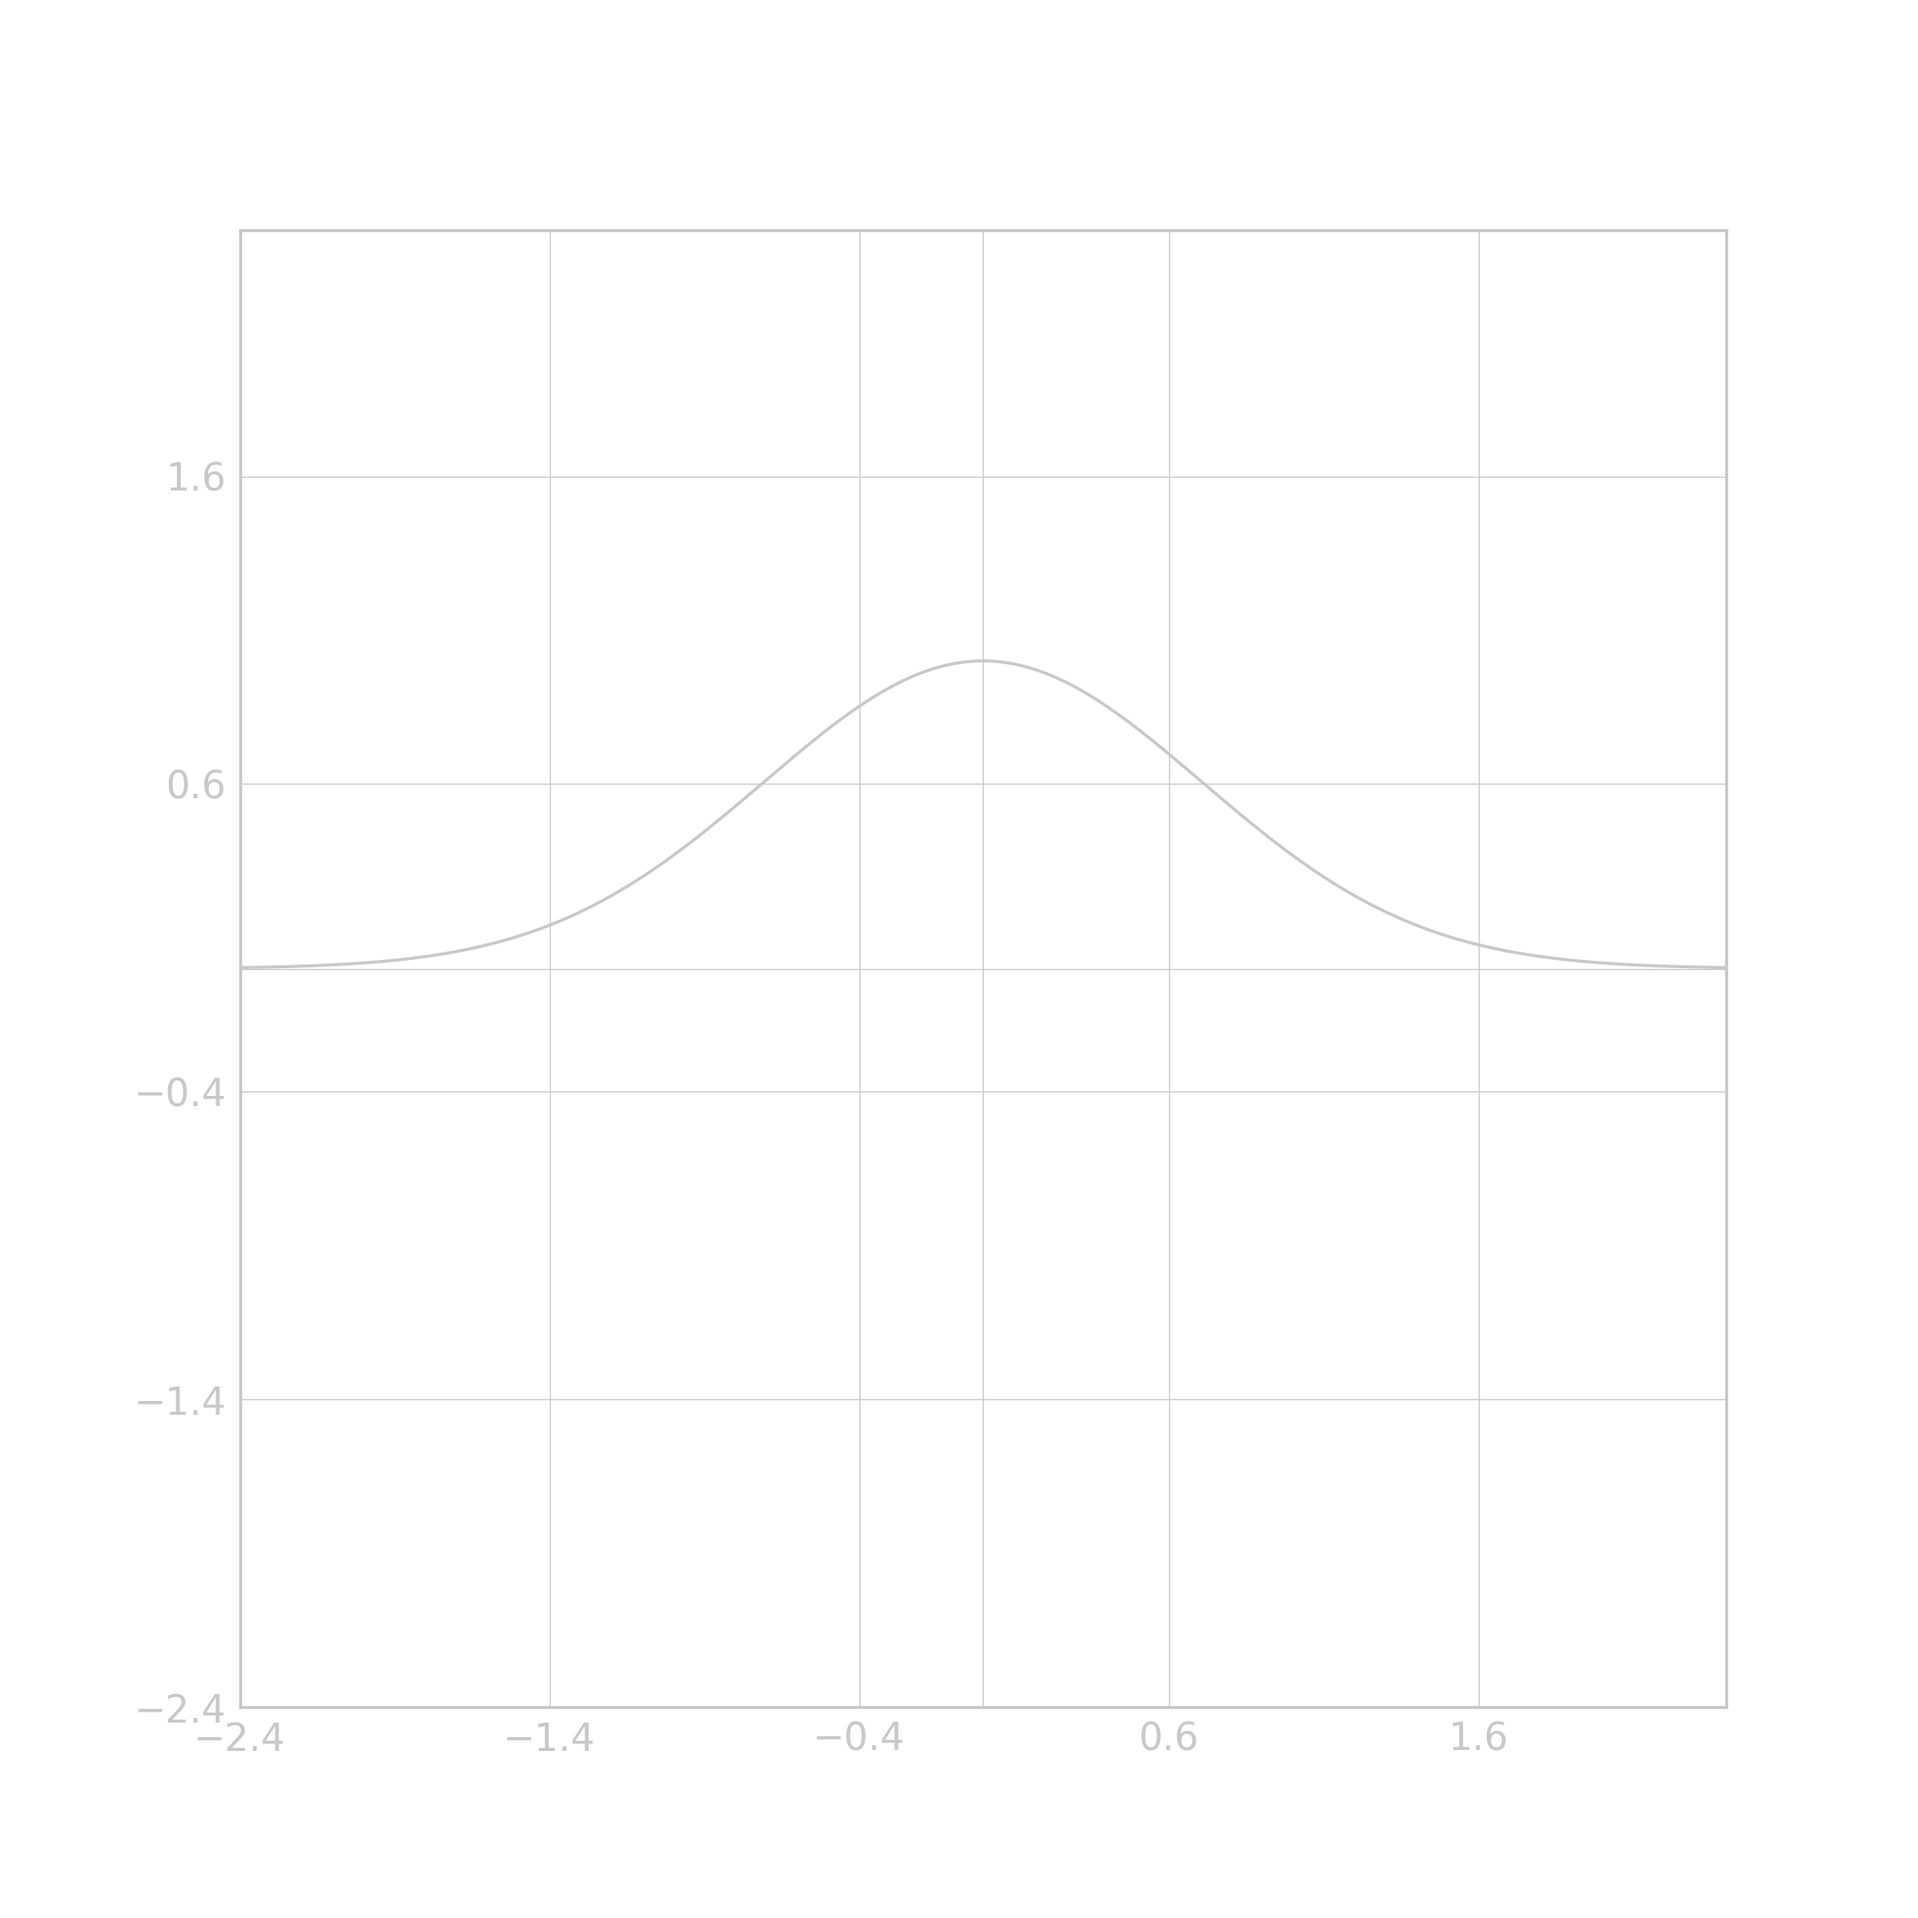
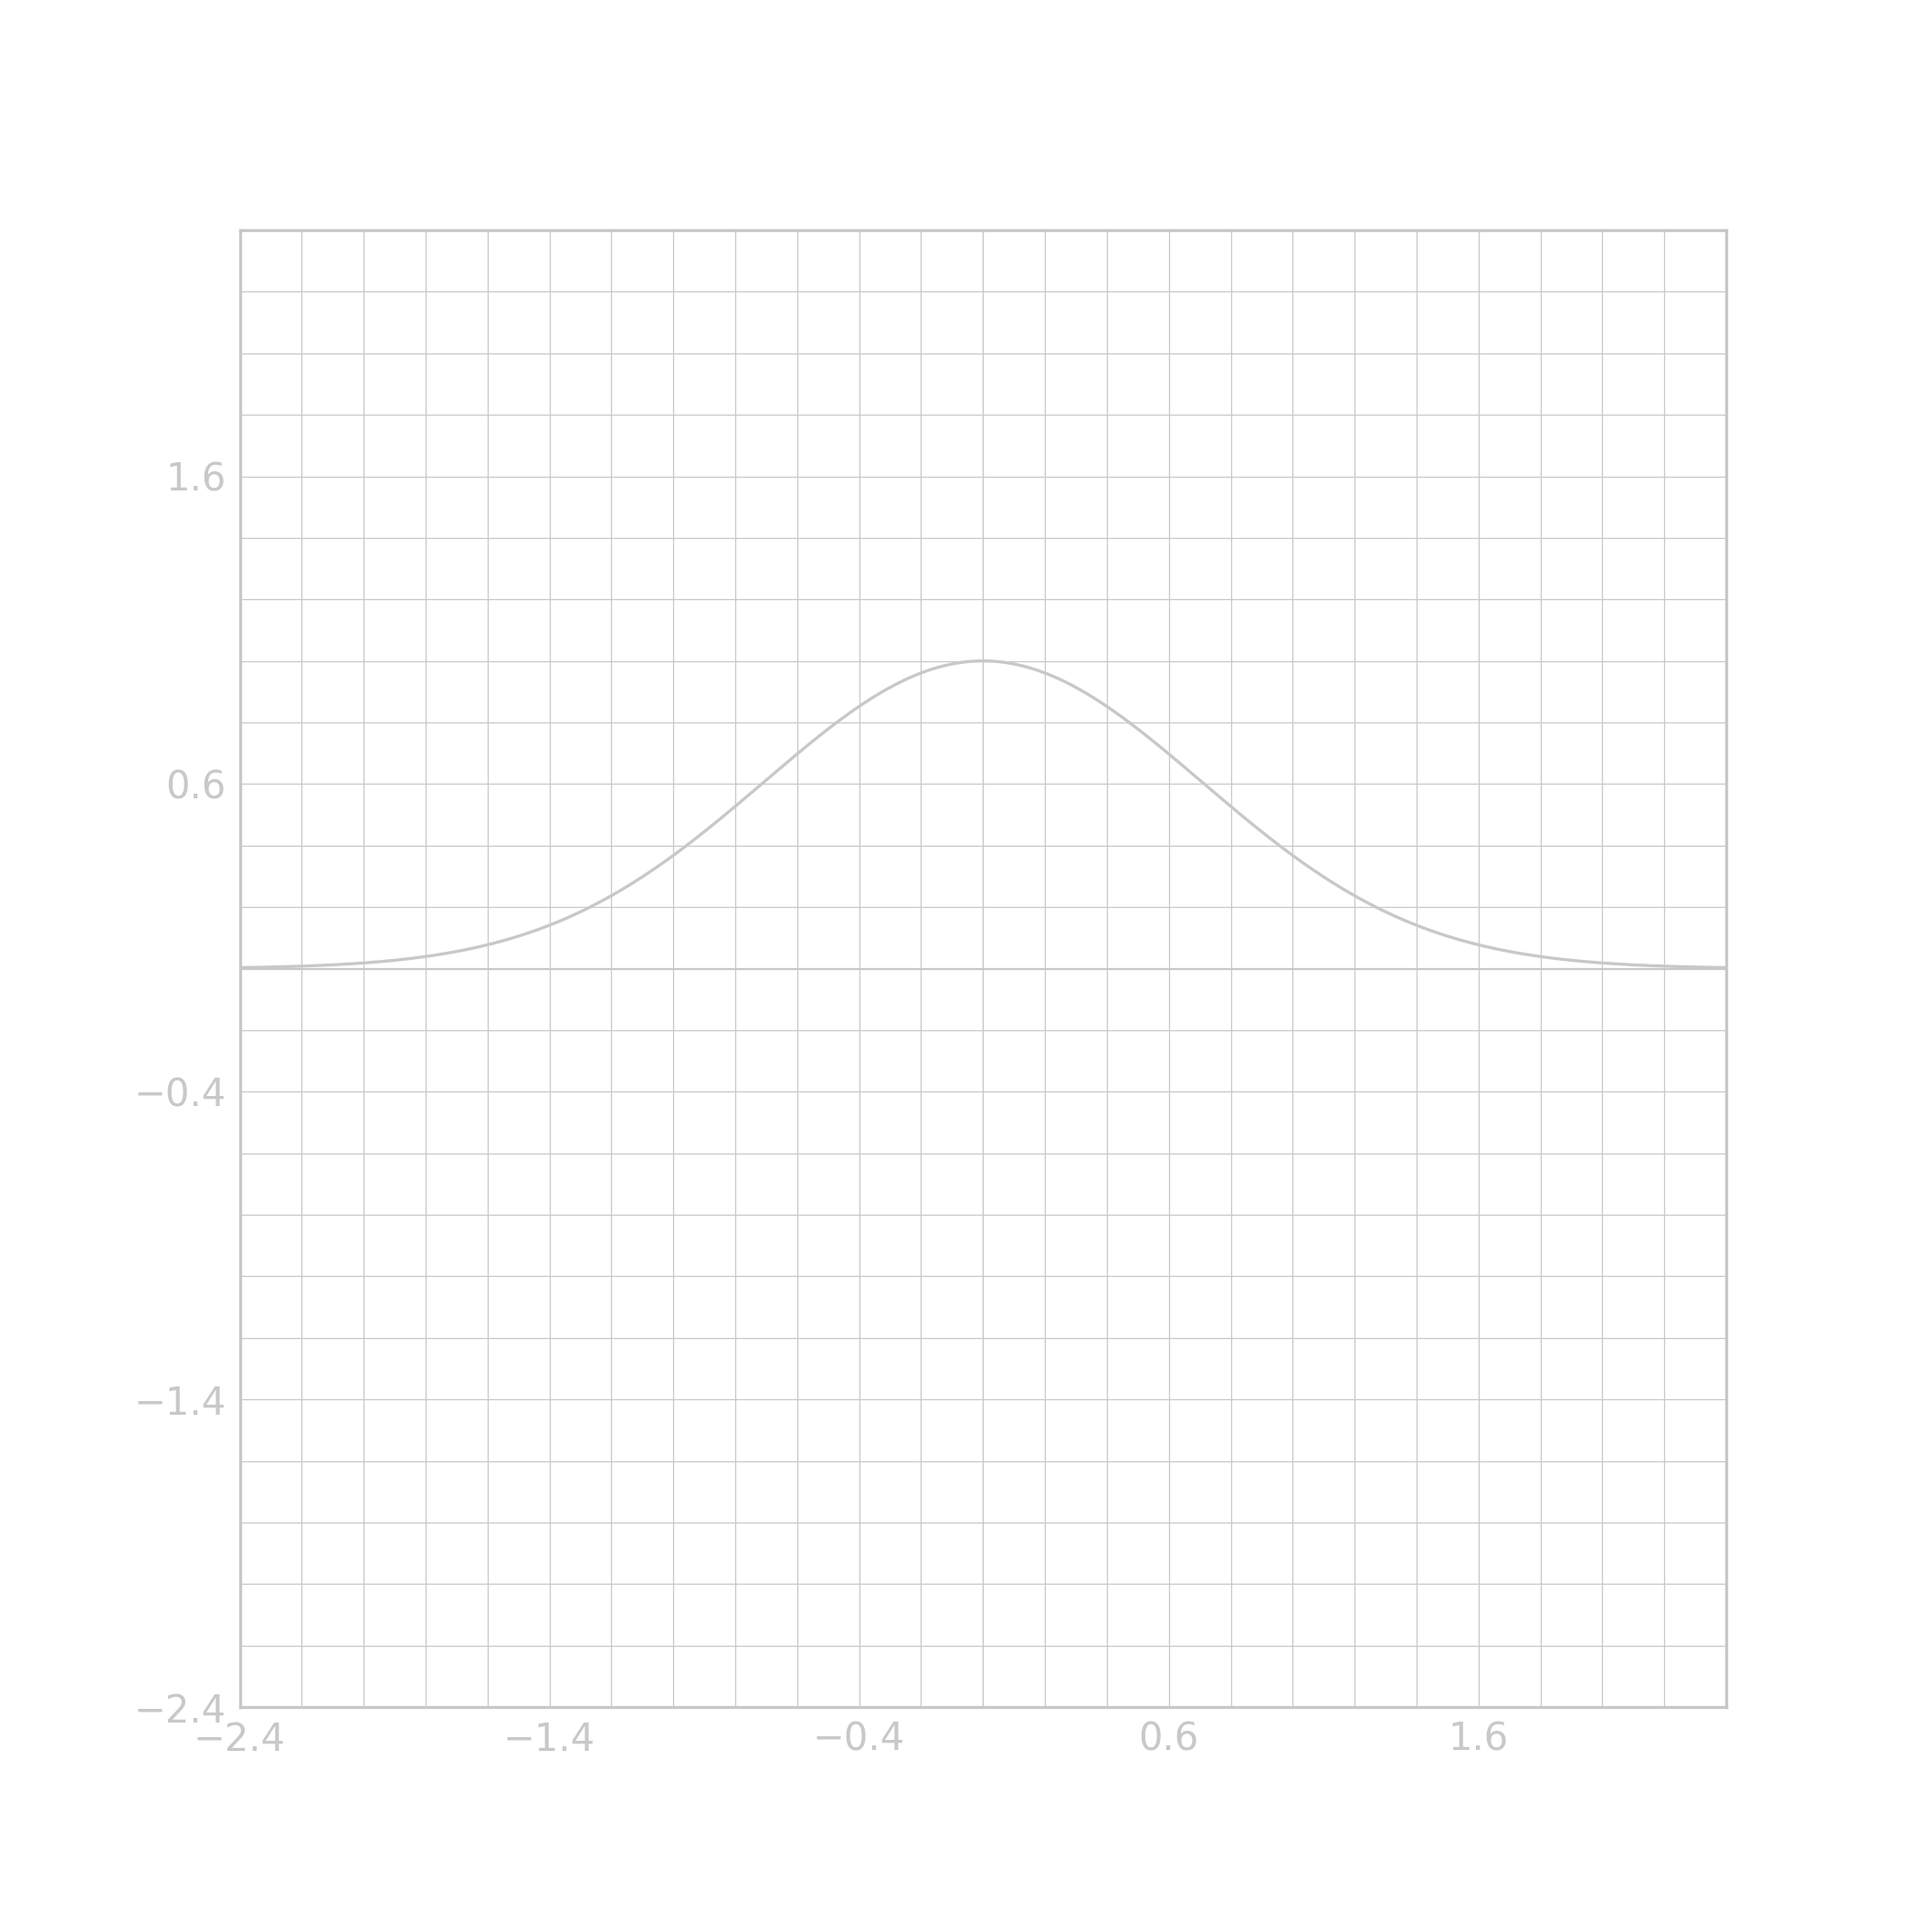
final edits

diff --git a/Graph.py b/Graph.py
@@ -1,40 +1,43 @@
 import numpy as np
 import matplotlib.pyplot as plt
 
-scale = 2.4
+len_x = 5
+len_y = 3
 
-def plot_function(f, xlim=(-scale, scale), ylim=(-scale, scale), num_points=1000, save_as=None):
+def plot_function(f, xlim=(-len_x, len_x), ylim=(-2, len_y), num_points=1000, save_as=None):
     x = np.linspace(xlim[0], xlim[1], num_points)
     y = f(x)
     
-    plt.figure(figsize=(7, 7))
+    plt.figure(figsize=(10, 5))
     
     # Define color in RGB format
-    col = 200
-    graph_colour = (col/255, col/255, col/255)
+    grid = 130
+    line = 50
+    grid_col = (grid/255, grid/255, grid/255)
+    line_col = (line/255, line/255, line/255)
     grid_linewidth = 0.3
     
     # Draw axes 
-    plt.axhline(0, color=graph_colour, linewidth=grid_linewidth)
-    plt.axvline(0, color=graph_colour, linewidth=grid_linewidth)
+    plt.axhline(0, color=grid_col, linewidth=grid_linewidth)
+    plt.axvline(0, color=grid_col, linewidth=grid_linewidth)
     
     # Set grid and limits, ensuring final right and bottom grid lines appear
-    plt.xticks(np.arange(xlim[0], xlim[1] + 1, 1), color=graph_colour)  # Keep grid, hide numbers
-    plt.yticks(np.arange(ylim[0], ylim[1] + 1, 1), color=graph_colour)  # Keep grid, hide numbers
-    plt.grid(True, linestyle='-', linewidth=grid_linewidth, which='both', color=graph_colour)
+    plt.xticks(np.arange(xlim[0], xlim[1] + 1, 1), color=grid_col)  # Keep grid, hide numbers
+    plt.yticks(np.arange(ylim[0], ylim[1] + 1, 1), color=grid_col)  # Keep grid, hide numbers
+    plt.grid(True, linestyle='-', linewidth=grid_linewidth, which='both', color=grid_col)
     plt.minorticks_on()
     plt.xlim(xlim[0], xlim[1])
     plt.ylim(ylim[0], ylim[1])
     
     # Remove tick marks and plot borders
-    plt.gca().tick_params(which='both', size=0, colors=graph_colour)  # Set tick color  # Remove tick marks
-    plt.gca().spines['top'].set_color(graph_colour)
-    plt.gca().spines['right'].set_color(graph_colour)
-    plt.gca().spines['bottom'].set_color(graph_colour)
-    plt.gca().spines['left'].set_color(graph_colour)
+    plt.gca().tick_params(which='both', size=0, colors=grid_col)  # Set tick color  # Remove tick marks
+    plt.gca().spines['top'].set_color(grid_col)
+    plt.gca().spines['right'].set_color(grid_col)
+    plt.gca().spines['bottom'].set_color(grid_col)
+    plt.gca().spines['left'].set_color(grid_col)
     
     # Plot the function with the specified light gray color
-    plt.plot(x, y, color=graph_colour, linewidth=0.8)
+    plt.plot(x, y, color=line_col, linewidth=0.8)
     
     # Save or show the plot
     if save_as:
@@ -43,8 +46,6 @@ def plot_function(f, xlim=(-scale, scale), ylim=(-scale, scale), num_points=1000
     else:
         plt.show()
 
-k = 2
-
 # The Function:
-plot_function(lambda x: np.e**(-x**2), save_as="function_plot.png")
+plot_function(lambda x: np.e**(-x**2))
 # save_as="function_plot.png"

diff --git a/Heart_Graph.py b/Heart_Graph.py
@@ -1,9 +1,10 @@
 import numpy as np
 import matplotlib.pyplot as plt
 
-scale = 1.4
+len_x = 1.4
+len_y = 1.4
 
-def plot_implicit_function(xlim=(-scale, scale), ylim=(-scale, scale), resolution=500, rotation_deg=355, save_as=None):
+def plot_implicit_function(xlim=(-len_x, len_x), ylim=(-len_y, len_y), resolution=500, rotation_deg=355, save_as=None):
     # Create a grid of (x, y) values.
     x = np.linspace(xlim[0], xlim[1], resolution)
     y = np.linspace(ylim[0], ylim[1], resolution)
@@ -22,31 +23,33 @@ def plot_implicit_function(xlim=(-scale, scale), ylim=(-scale, scale), resolutio
     plt.figure(figsize=(8, 8))
     
     # Define color in RGB format
-    col = 50
-    light_gray = (col/255, col/255, col/255)
+    grid = 130
+    line = 50
+    grid_col = (grid/255, grid/255, grid/255)
+    line_col = (line/255, line/255, line/255)
     grid_linewidth = 0.3
     
     # Draw the axes
-    plt.axhline(0, color=light_gray, linewidth=grid_linewidth)
-    plt.axvline(0, color=light_gray, linewidth=grid_linewidth)
+    plt.axhline(0, color=grid_col, linewidth=grid_linewidth)
+    plt.axvline(0, color=grid_col, linewidth=grid_linewidth)
     
     # Set grid and limits
-    plt.xticks(np.arange(xlim[0], xlim[1] + 1, 1))  # Keep grid, hide numbers
-    plt.yticks(np.arange(ylim[0], ylim[1] + 1, 1))  # Keep grid, hide numbers
-    plt.grid(True, linestyle='-', linewidth=grid_linewidth, which='both', color=light_gray)
+    plt.xticks(np.arange(xlim[0], xlim[1] + 1, 1), color=grid_col)  # Keep grid, hide numbers
+    plt.yticks(np.arange(ylim[0], ylim[1] + 1, 1), color=grid_col)  # Keep grid, hide numbers
+    plt.grid(True, linestyle='-', linewidth=grid_linewidth, which='both', color=grid_col)
     plt.minorticks_on()
     plt.xlim(xlim[0], xlim[1])
     plt.ylim(ylim[0], ylim[1])
     
     # Remove minor ticks and plot borders
-    plt.gca().tick_params(which='both', size=1)  # Remove tick marks
-    plt.gca().spines['top'].set_color(light_gray)
-    plt.gca().spines['right'].set_color(light_gray)
-    plt.gca().spines['bottom'].set_color(light_gray)
-    plt.gca().spines['left'].set_color(light_gray)
+    plt.gca().tick_params(which='both', size=5, color=grid_col)  # Remove tick marks
+    plt.gca().spines['top'].set_color(grid_col)
+    plt.gca().spines['right'].set_color(grid_col)
+    plt.gca().spines['bottom'].set_color(grid_col)
+    plt.gca().spines['left'].set_color(grid_col)
     
     # Plot the implicit function by drawing the contour where Z == 0.
-    plt.contour(X, Y, Z, levels=[0], colors=[light_gray], linewidths=0.8)
+    plt.contour(X, Y, Z, levels=[0], colors=[line_col], linewidths=0.8)
     
     # Save or display the plot.
     if save_as:
